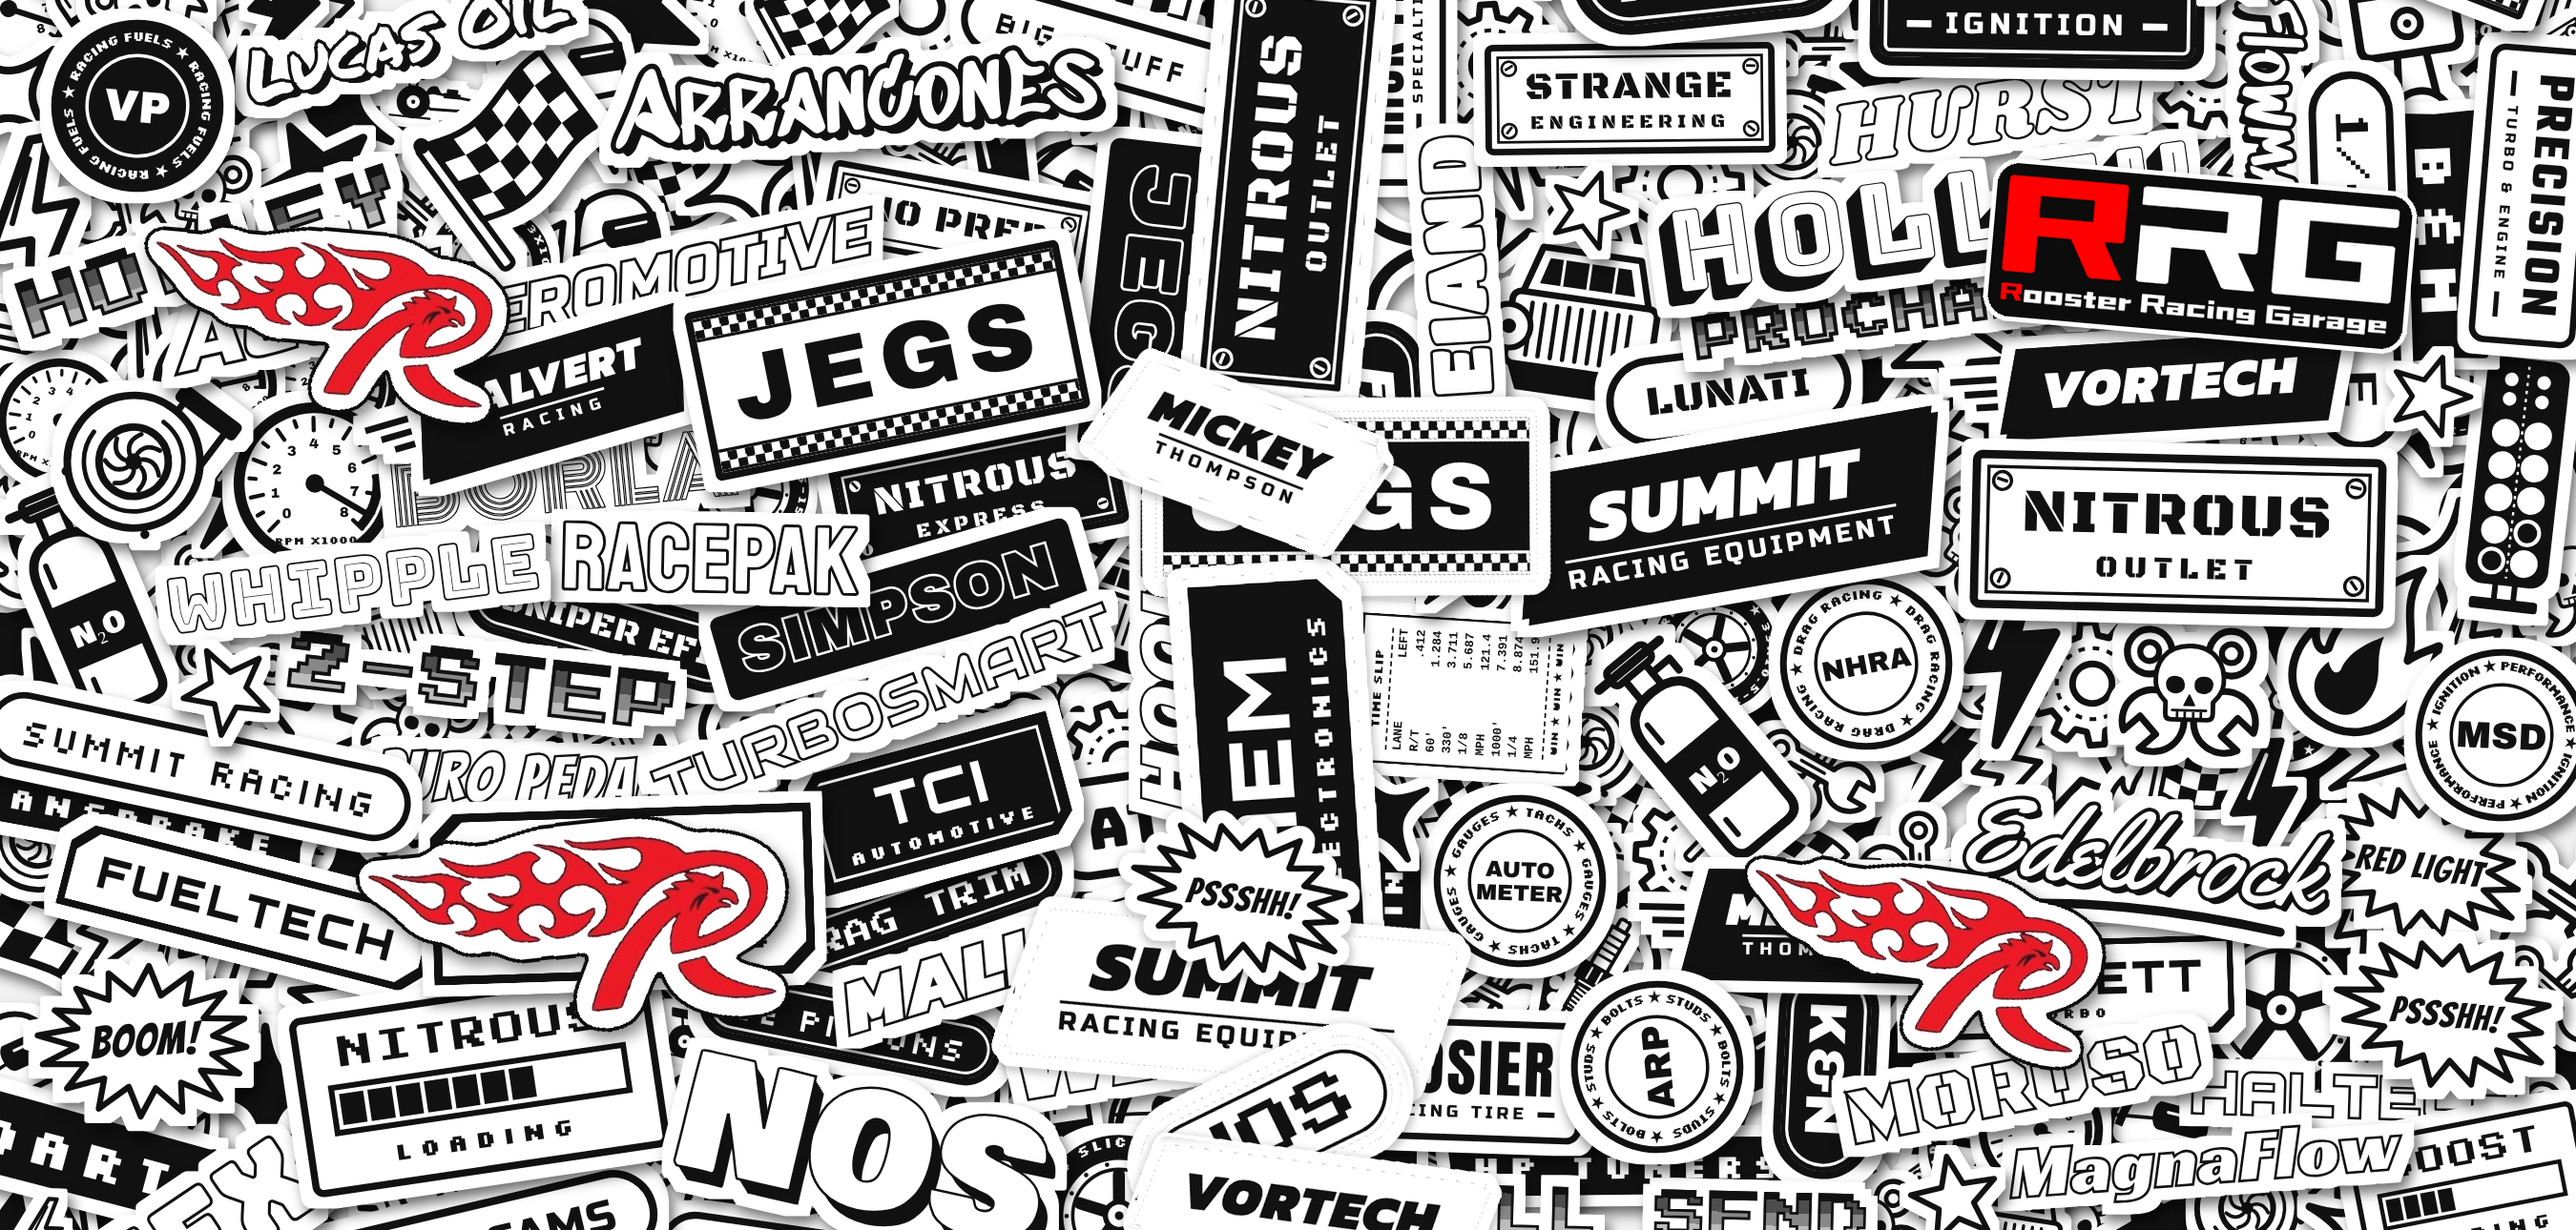
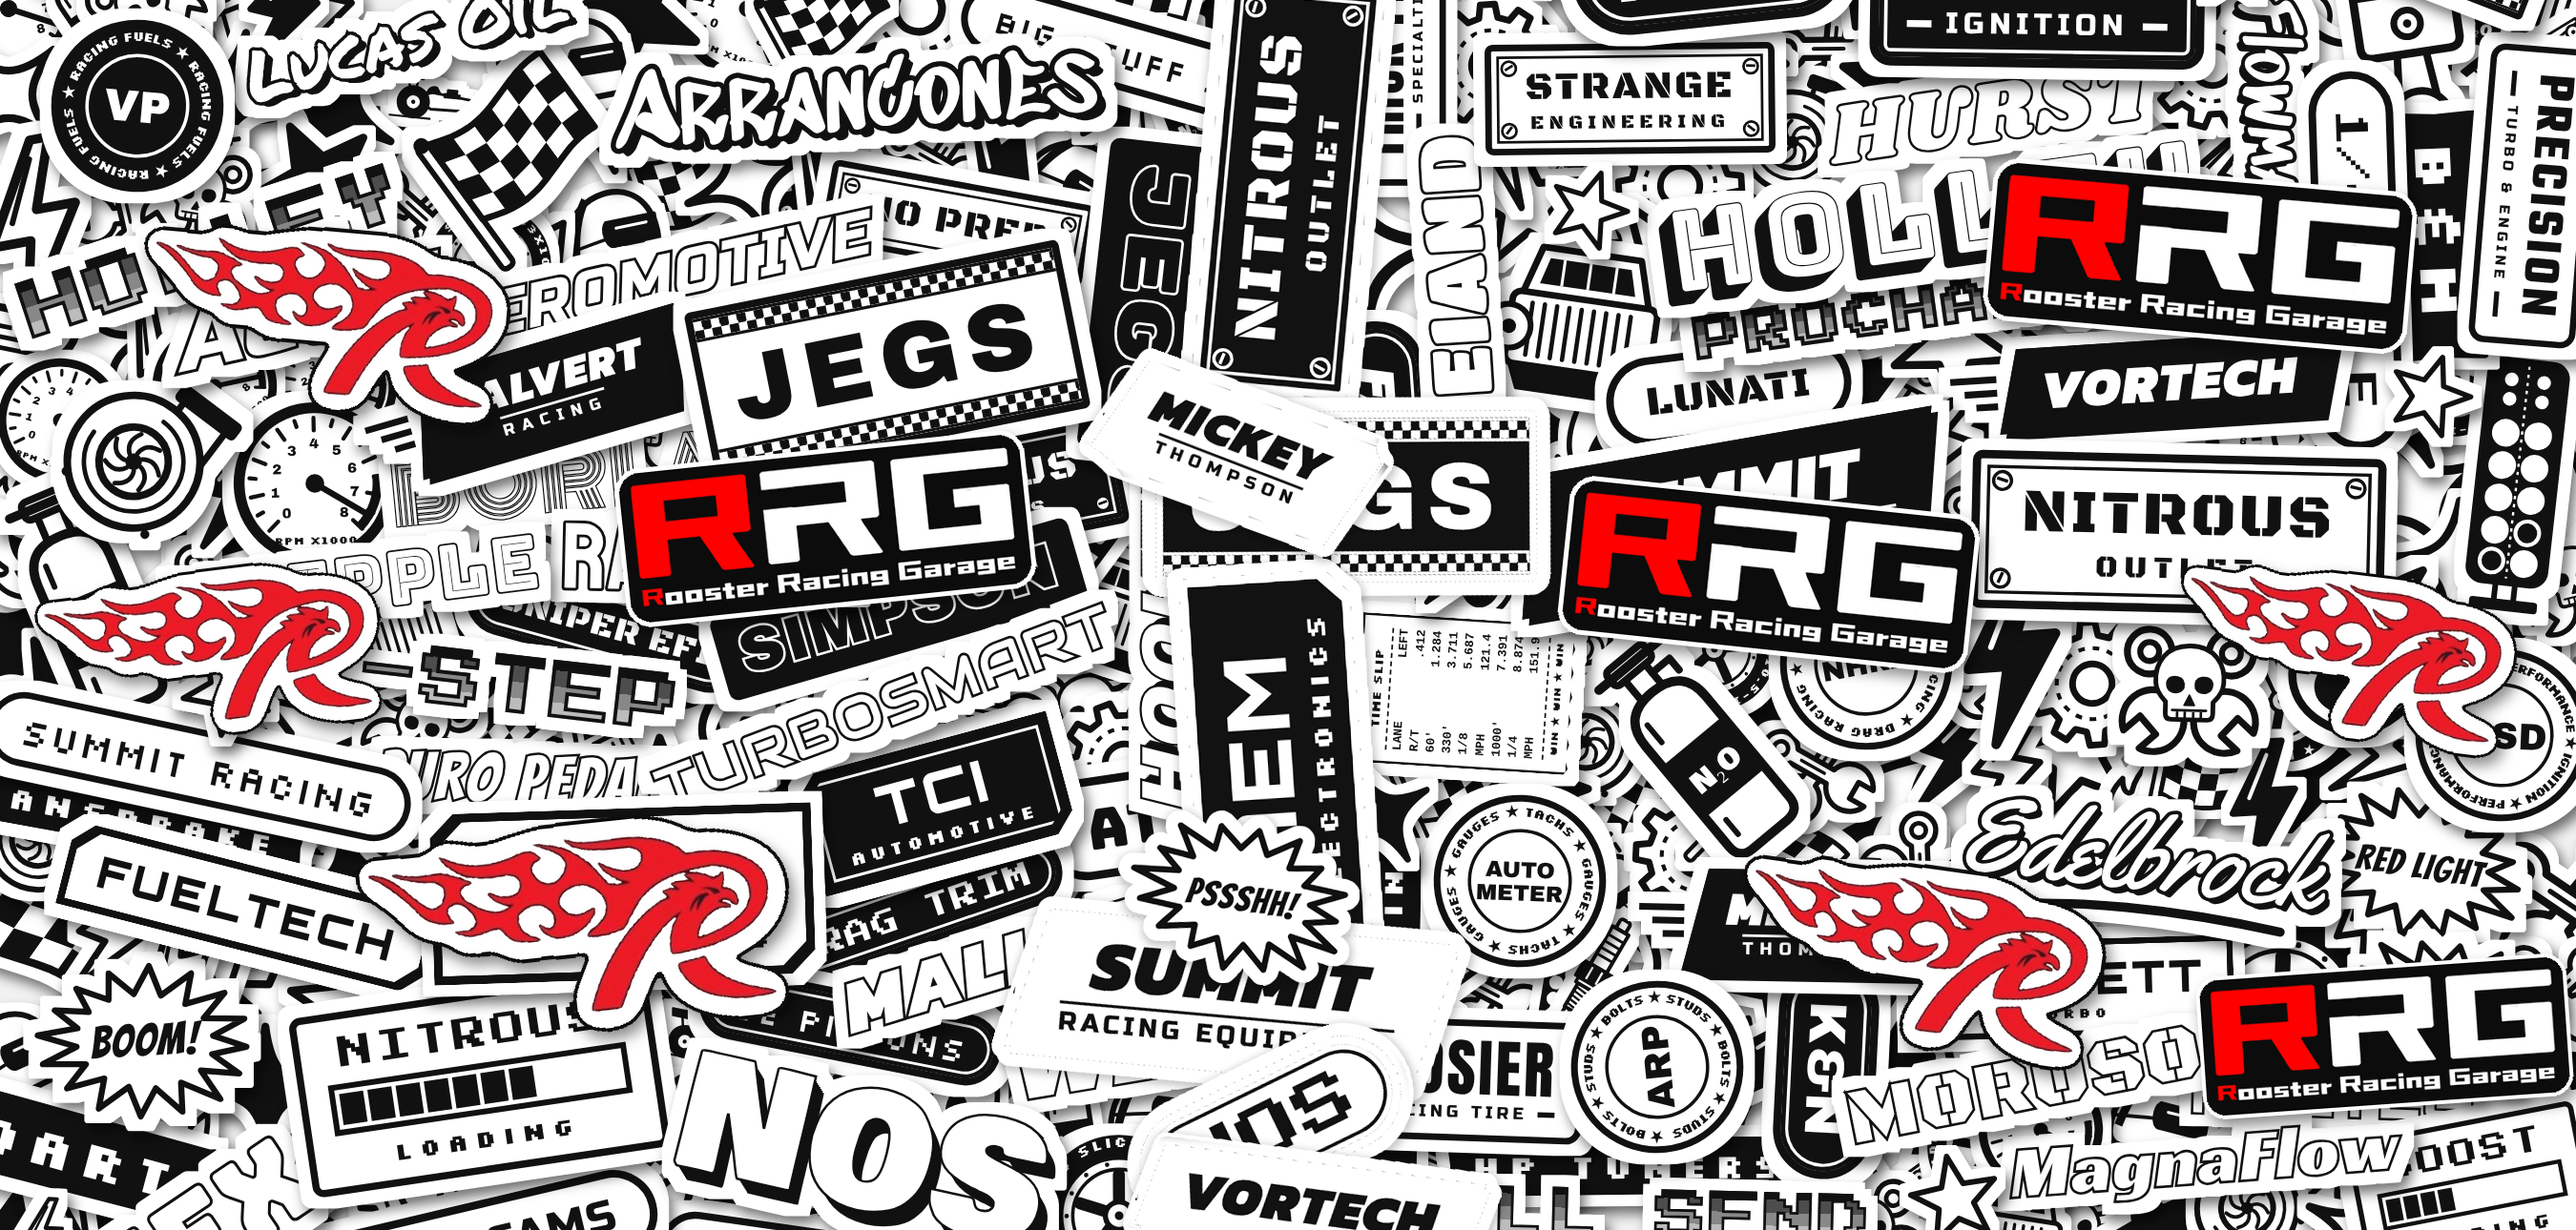
0.8.3 (sin publicar): Gallos con 5 R con flamas y 4 RRG
Daniel: "En el fondo de gallos, ponle que aparezca el sticker de RRG otras
3 veces y el de la R con flamas que aparezca otras 2 veces más, o sean 5".

- De pie (LUGAR en logos_rooster.py): a la izquierda R, RRG, R, RRG, R y a
  la derecha RRG, R, R, RRG, fuera de la columna del árbol de Práctica.
- Acostado (LUGAR_ACOSTADO en acostados.py): 5 R y 4 RRG a los dos lados
  del árbol, sin tocar la orilla.
- hacer_mascaras.py también salta los logos del Blanco y negro que quedan
  tapados en parte por un logo de Rooster (NITROUS OUTLET).

Pruebas: probar_todo.sh algoritmo calc ui practica instalar matlab carrera,
todo bien salvo el caso conocido de qr_camara_test.py (QR lejos y de lado).

Claude-Session: https://claude.ai/code/session_0152EagFVRbY63MJxiLGnruv

diff --git a/fuente/app/src/app.js b/fuente/app/src/app.js
@@ -2,7 +2,7 @@
 (function () {
   'use strict';
   const C = window.DragCore;
-  const APP_VERSION = '0.8.2';   // sin "beta" desde 0.6.4 (Daniel quitó la etiqueta)
+  const APP_VERSION = '0.8.3';   // sin "beta" desde 0.6.4 (Daniel quitó la etiqueta)
   const $ = (s) => document.querySelector(s);
   const isFin = Number.isFinite;
 

diff --git a/fuente/fondos/logos_rooster.py b/fuente/fondos/logos_rooster.py
@@ -1,8 +1,9 @@
 """Fondo "Gallos": el Blanco y negro con los logos de Rooster Racing (el equipo de Daniel) como stickers (25 oct 2026).
 
 - Logo 1 (archivo/originales/logo_rooster_racing.png): solo la R roja con flamas (sin el texto), sticker con borde
-  blanco y orilla negra; van tres.
-- Logo 2 (archivo/originales/logo_rrg.png): el logo RRG completo, sobre un sticker negro con borde blanco.
+  blanco y orilla negra; van cinco (eran tres; 8 nov 2026, Daniel: "la R con flamas que aparezca otras 2 veces más").
+- Logo 2 (archivo/originales/logo_rrg.png): el logo RRG completo, sobre un sticker negro con borde blanco; van cuatro (era
+  uno; Daniel: "que aparezca el sticker de RRG otras 3 veces").
 Toma el Blanco y negro original (archivo/originales/fondo_marcas_blanco_negro_sin_rooster.png; el de la app no se
 toca) y escribe:
   fuente/fondos/fondo_marcas_gallos.png              el fondo (build.py lo pasa a WebP y lo agrega a los fondos)
@@ -23,6 +24,12 @@ LUGAR = [
     ('r_flamas', dict(cx=106, cy=640, ancho=200, giro=6)),   # izquierda, a media pantalla
     ('r_flamas', dict(cx=100, cy=330, ancho=172, giro=-5)),  # izquierda, arriba
     ('r_flamas', dict(cx=442, cy=600, ancho=172, giro=-8)),  # derecha, a media pantalla
+    # 8 nov 2026: 3 RRG y 2 R más; a la izquierda quedan R, RRG, R, RRG, R y a la derecha RRG, R, R, RRG
+    ('rrg', dict(cx=108, cy=482, ancho=166, giro=5)),        # izquierda, entre las dos R
+    ('rrg', dict(cx=104, cy=878, ancho=172, giro=-6)),       # izquierda, abajo
+    ('rrg', dict(cx=438, cy=812, ancho=166, giro=7)),        # derecha, abajo
+    ('r_flamas', dict(cx=440, cy=392, ancho=180, giro=7)),   # derecha, arriba de la otra R
+    ('r_flamas', dict(cx=112, cy=1062, ancho=186, giro=-7)), # izquierda, hasta abajo
 ]
 K = 1290 / 540   # el fondo original mide 1290 px de ancho
 

diff --git a/fuente/fondos/acostados.py b/fuente/fondos/acostados.py
@@ -12,7 +12,7 @@ stickers repetidos):
     versión (cambio(): la misma marca en blanco o en negro, en rojo o en verde…), así no se ve que se repiten.
     RECETA dice cuáles, dónde, con qué giro y en qué versión; no se inventa ningún sticker;
   - Botella NOS = Combinado rojo acostado + la botella (sale de comparar los dos verticales), en medio;
-  - Gallos = Blanco y negro acostado + los logos de Rooster Racing (logos_rooster.py) en LUGAR_ACOSTADO.
+  - Gallos = Blanco y negro acostado + los logos de Rooster Racing (logos_rooster.py) en LUGAR_ACOSTADO (5 R y 4 RRG).
 Escribe acostados/fondo_marcas_<id>.png y brillo/acostados/<id>-<color>.png (las formas que se prenden en Práctica,
 con la misma receta; las copias en su otra versión no se prenden); build.py los pasa a WebP (fondos/<id>_h.webp y
 fondos/<id>_h_brillo_<color>.webp) y la app los usa con la pantalla de lado (style.css, @media (orientation: landscape)).
@@ -105,6 +105,12 @@ LUGAR_ACOSTADO = [
     ('r_flamas', dict(cx=150, cy=140, ancho=172, giro=-5)),  # izquierda, arriba
     ('r_flamas', dict(cx=262, cy=405, ancho=200, giro=6)),   # izquierda, abajo
     ('r_flamas', dict(cx=850, cy=420, ancho=172, giro=-8)),  # derecha, abajo
+    # 8 nov 2026 (como de pie: 4 RRG y 5 R en total)
+    ('rrg', dict(cx=362, cy=232, ancho=166, giro=6)),        # izquierda, junto al árbol
+    ('rrg', dict(cx=776, cy=252, ancho=166, giro=-6)),       # derecha, junto al árbol
+    ('rrg', dict(cx=1046, cy=455, ancho=150, giro=4)),       # derecha, abajo en la orilla
+    ('r_flamas', dict(cx=100, cy=285, ancho=160, giro=7)),   # izquierda, en medio
+    ('r_flamas', dict(cx=1036, cy=288, ancho=160, giro=-7)), # derecha, en medio
 ]
 
 

diff --git a/fuente/fondos/brillo/hacer_mascaras.py b/fuente/fondos/brillo/hacer_mascaras.py
@@ -394,10 +394,11 @@ def main():
     for fid, por_color in LOGOS.items():
         im = Image.open(FONDOS / f'fondo_marcas_{fid}.png').convert('RGB')
         im = im.resize((ANCHO, round(im.height * ANCHO / im.width)), Image.LANCZOS)
-        propios = huella = None
+        propios = huella = cerca = None
         if fid in PROPIOS:
             leer = lambda f: np.array(Image.open(AQUI / f).convert('L').resize(im.size, Image.NEAREST)) > 127
             propios, huella = leer(PROPIOS[fid][0]), leer(PROPIOS[fid][1])
+            cerca = ~erosionar(~huella, 16)   # a 16 px de un logo propio: si ya no se encuentra, es que quedó tapado en parte
         m, palabras = cuerpos(fid, im)
         etq, G, bb, area = grupos(m, palabras=palabras)
         de_comp = {c: r for r, comps in G.items() for c in comps}
@@ -414,6 +415,9 @@ def main():
                     sale |= np.isin(etq, G[de_comp[c]])
                 elif cajas is not None and cajas[y, x] > 0:
                     sale |= cajas == cajas[y, x]
+                elif cerca is not None and cerca[y, x]:
+                    print(f'{fid:15} {color:5} {nombre}: tapado en parte por un logo propio, no se prende')
+                    continue
                 else:
                     raise SystemExit(f'{fid} {color}: no encontré el logo {nombre} en ({x}, {y})')
                 n += 1

diff --git a/fuente/app/tools/build.py b/fuente/app/tools/build.py
@@ -6,7 +6,7 @@ from PIL import Image, ImageChops, ImageDraw, ImageFilter, ImageStat
 ROOT = pathlib.Path(__file__).resolve().parent.parent
 SRC, DIST = ROOT / 'src', ROOT / 'dist'
 DIST.mkdir(exist_ok=True)
-VERSION = 'v-0.8.2'
+VERSION = 'v-0.8.3'
 
 html = (SRC / 'index.template.html').read_text(encoding='utf-8')
 assert html.count('<!--LOGO-->') == 2

diff --git a/CLAUDE.md b/CLAUDE.md
@@ -103,6 +103,12 @@ mejor?").
    y deja su forma y su huella en `brillo/rooster-gallos*.png`; `hacer_mascaras.py` (PROPIOS, LOGOS['gallos'] = los del
    Blanco y negro) prende esos logos en verde y en rojo y salta solos los que quedaron tapados (JEGS, STRANGE, cápsula
    NOS). Brillo: verde 12.1 %, rojo 15.3 %.
+   **Más logos de Rooster en Gallos** (0.8.3, **sin publicar**; 8 nov, Daniel: "ponle que aparezca el sticker de RRG otras 3
+   veces y el de la R con flamas… otras 2 veces más, o sean 5"): **5 R y 4 RRG**, de pie (LUGAR: a la izquierda R, RRG, R,
+   RRG, R y a la derecha RRG, R, R, RRG, todos fuera de la columna del árbol) y acostado (LUGAR_ACOSTADO en acostados.py,
+   a los dos lados del árbol, sin tocar la orilla). Tapan más logos del Blanco y negro: `hacer_mascaras.py` ahora también
+   salta los que quedan tapados **en parte** por un logo propio (punto a ≤16 px de la huella que ya no se encuentra; p. ej.
+   NITROUS OUTLET bajo el RRG de abajo a la derecha). Brillo de pie: verde 14.2 %, rojo 17.1 %.
    **Fondos acostados** (**publicado en la 0.8.2**, 7 nov; Daniel: "cuando lo acuesta simplemente le hace zoom al fondo… que
    se vea con el mismo zoom con el que se ve un fondo cuando está el teléfono en vertical… hazlo con todos los fondos"): con
    la pantalla de lado (`@media (orientation: landscape)` sin `html.girada`; también tablets y computadora) cada fondo usa
